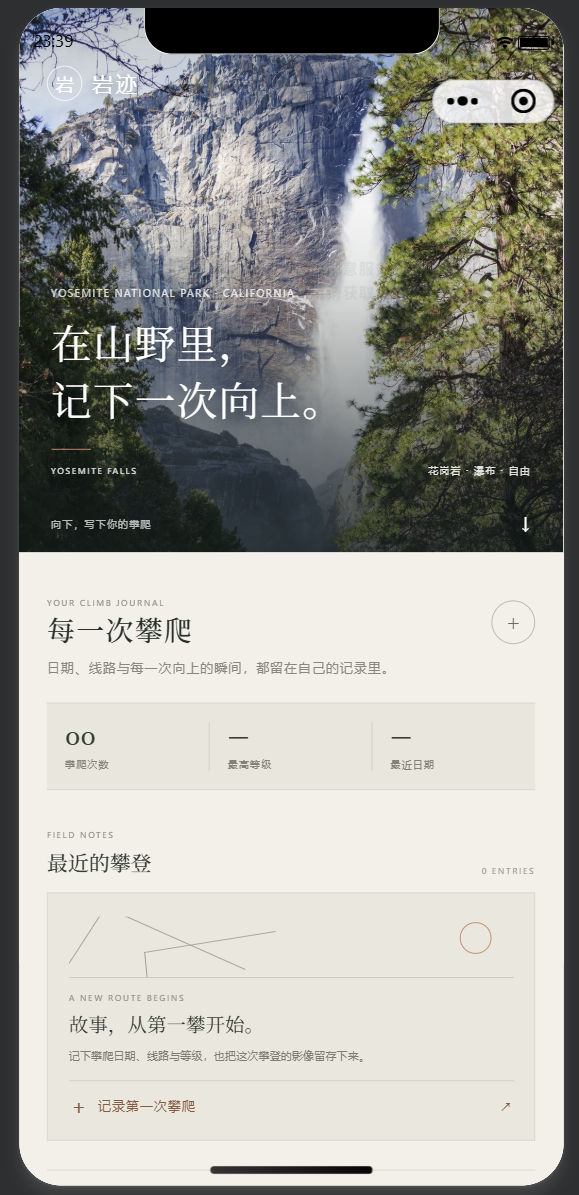
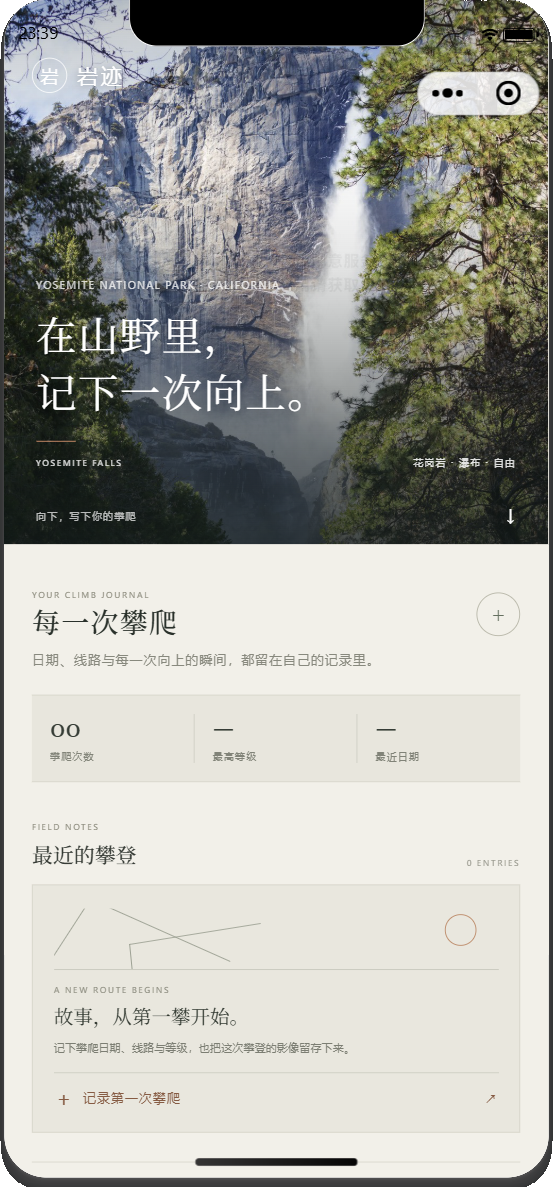
Update interests section and crop climbing mockup

diff --git a/src/main.tsx b/src/main.tsx
@@ -105,7 +105,7 @@ function Hero() {
   const resetMagnet = () => { if (magnet.current) magnet.current.style.transform = 'translate3d(0, 0, 0)'; };
   return <section className="hero" id="top" onMouseMove={onMove} onMouseLeave={resetMagnet}>
     <motion.nav className="nav-bar" initial={{ opacity: 0, y: -18 }} animate={{ opacity: 1, y: 0 }} transition={{ duration: 0.7 }}>
-      <a className="nav-logo" href="#top">RONNIE<span>✳</span></a><div className="nav-links"><a href="#about">关于</a><a href="#services">能力</a><a href="#projects">项目</a><a href="#game-edits">游戏剪辑</a></div><ContactButton compact/>
+      <a className="nav-logo" href="#top">RONNIE<span>✳</span></a><div className="nav-links"><a href="#about">关于</a><a href="#services">能力</a><a href="#projects">项目</a><a href="#game-edits">个人兴趣</a></div><ContactButton compact/>
     </motion.nav>
     <div className="hero-title-wrap"><motion.h1 className="hero-heading" initial={{ opacity: 0, y: 55 }} animate={{ opacity: 1, y: 0 }} transition={{ duration: 0.9, delay: 0.12, ease: [0.25, 0.1, 0.25, 1] }}>RONNIE<span className="hero-star">✳</span></motion.h1><span className="hero-role">BRAND · CONTENT · CAMPAIGNS</span></div>
     <div className="hero-orbit" aria-hidden="true"><div className="orbit-line orbit-line-1"/><div className="orbit-line orbit-line-2"/><div className="orbit-line orbit-line-3"/><div className="orbit-disc"><img src={assetUrl('images/ronnie-3d-head.png')} alt="赵哿仪的 3D 头像"/><span>R</span></div><span className="orbit-label orbit-label-a">CONTENT<br/>× PEOPLE</span><span className="orbit-label orbit-label-b">洞察 · 表达 · 增长</span><span className="orbit-dot dot-a"/><span className="orbit-dot dot-b"/><span className="orbit-dot dot-c"/></div>
